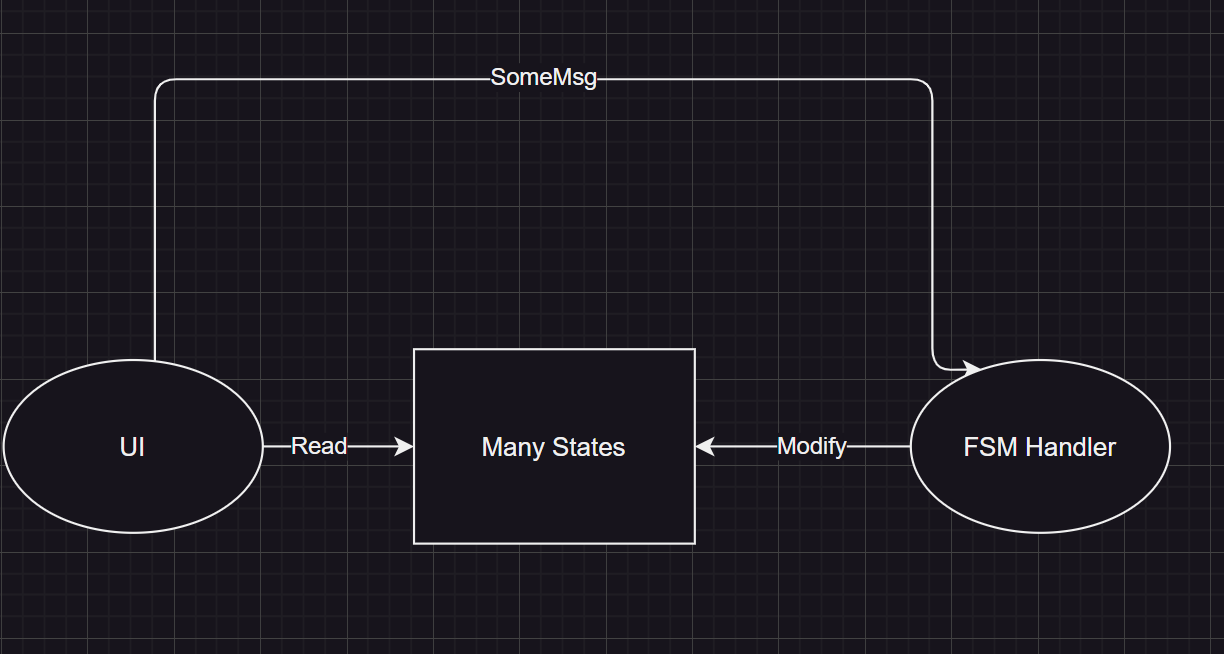
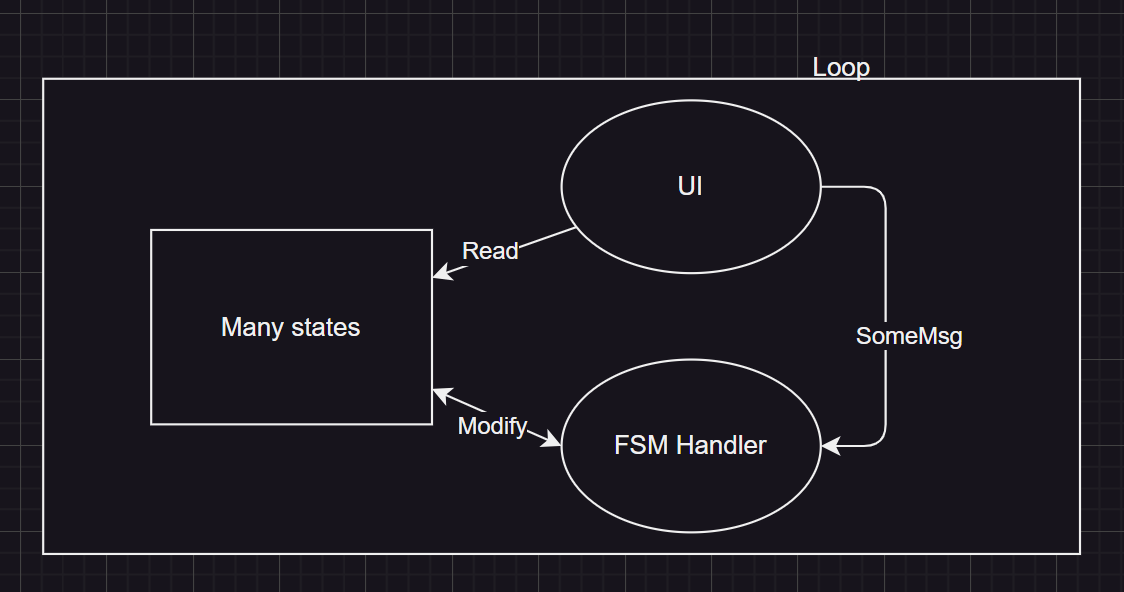
Refactor the framework to put the rendering interface and event processing in one thread

diff --git a/README.md b/README.md
@@ -27,9 +27,7 @@ Each arrow represents a message
 
 ![framewrok](data/framework.png)
 
-The state machine on the right changes the state of the state machine according to the received message, and performs some internal operations at the same time. These actions will change the changes in the intermediate state.
-
-The UI part on the left detects the changes in the intermediate state and builds a new UI interface based on the intermediate state.
+The UI first renders the interface to register the event, the FSM Handler waits for the event to be passed in, and then processes the event. This cycle continues.
 
 The overall structure is so simple!
 

diff --git a/README-zh.md b/README-zh.md
@@ -23,9 +23,7 @@ Exit 代表退出
 ### 整体的运行框架如下：
 ![framewrok](data/framework.png)
 
-右侧的状态机根据接收到的消息改变状态机的状态，同时执行一些内部操作，这些动作都会改变中间状态的变化。
-
-左侧的UI部分检测中间状态的变化，并根据中间的状态构建新的UI界面。
+UI先渲染界面注册事件，FSM Handler等待事件传入，然后处理事件。然后如此循环即可。
 
 整体结构就是如此简单！
 
